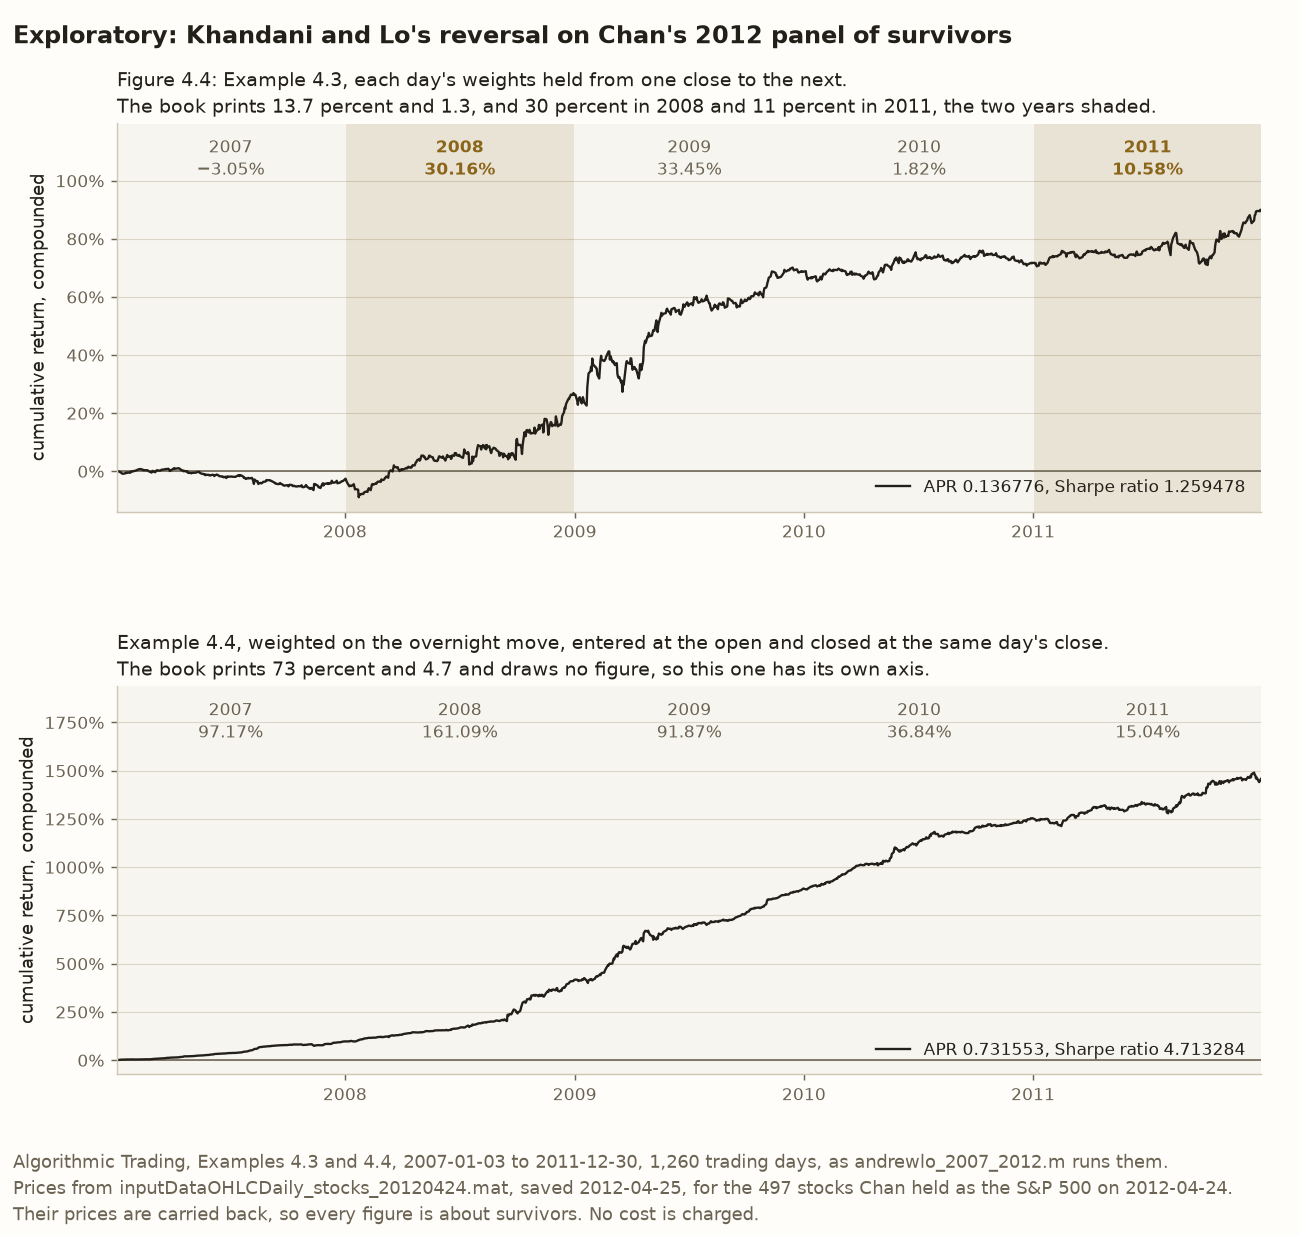
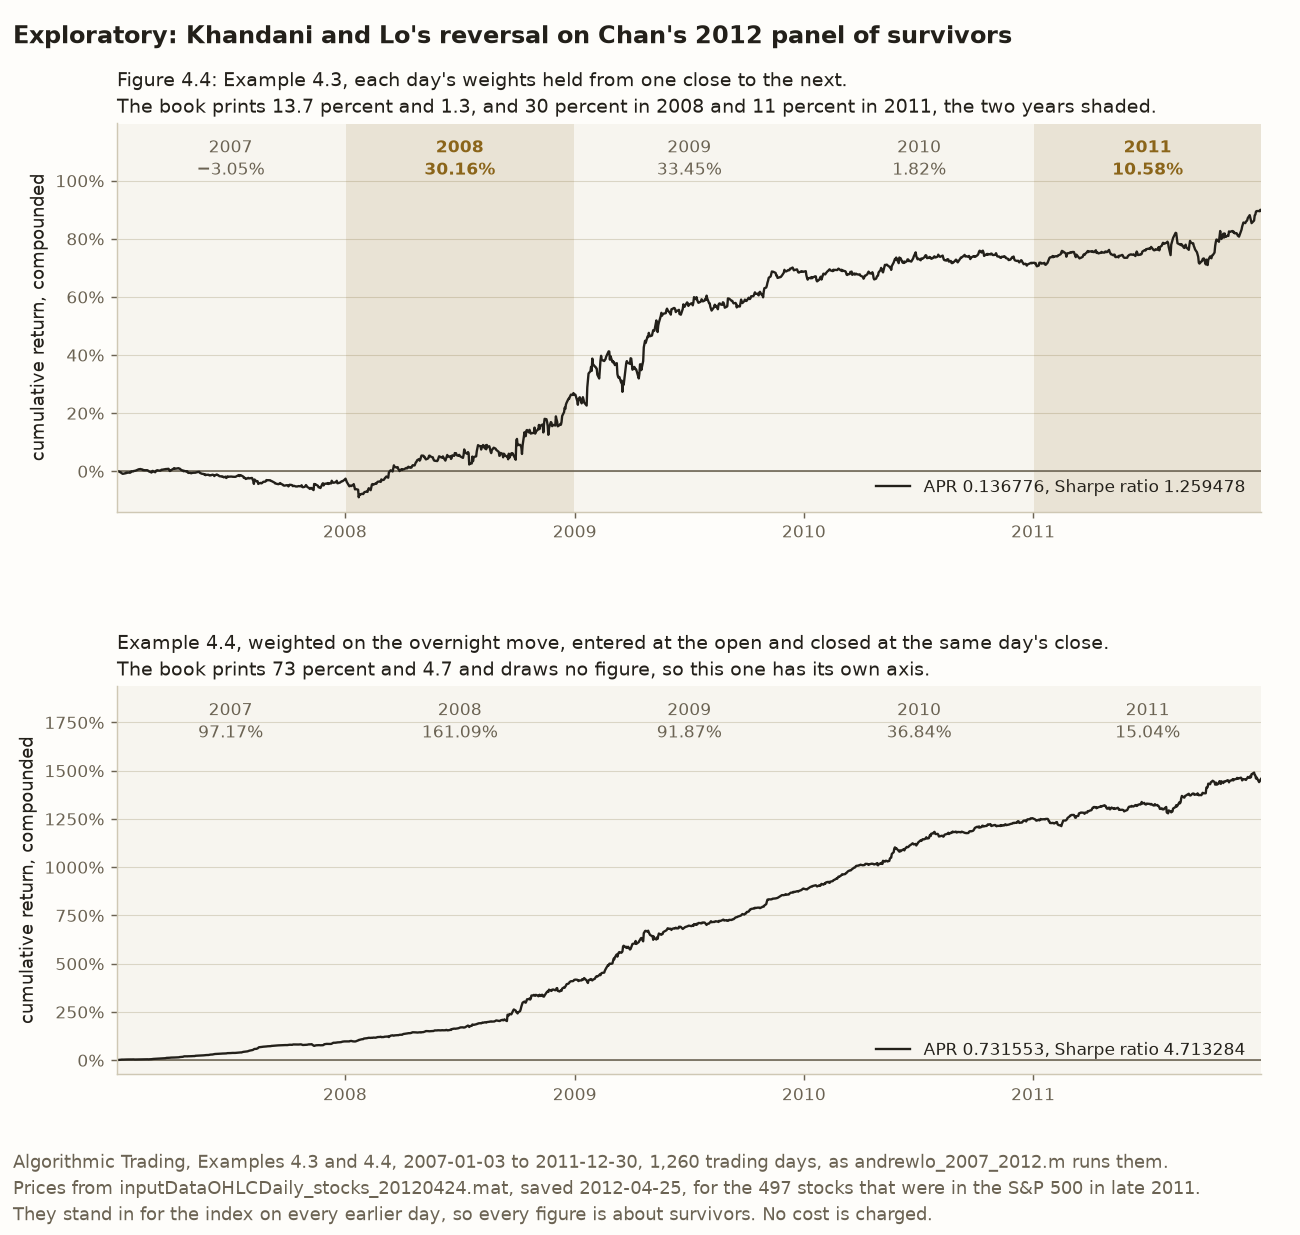
docs(blog): round 1 accuracy fixes on the Khandani-Lo reversal post
The review loop's first round found these facts wrong in the post and on
the surfaces that repeat them.

- Chan's 2012 stock file holds the S&P 500 of late 2011, not of
  2012-04-24, so the post, Entry 19, README, the module's docstring and
  printout, a test docstring and the chart's note now say so. The chart
  is redrawn.
- "Every figure Chan prints" counted Figure 4.4, a chart nothing checks.
  The post, Entry 19 and README now say every return and Sharpe ratio.
- The repository keeps the file's contents as one table per stock, not a
  copy of the .mat.
- A weight is minus a stock's return against the average, not plus.
- Only some runs call the scale-break check, the check also flags 14
  stocks' opens, and it flags CAH's rise rather than its fall.
- Chan's first-book standard deviation counts a missing day as a zero.
- Only a lower APR would change Example 4.4's sixth decimal.
- 2006-01-04 has returns and earns nothing because it holds empty weights.

Part of #639
Part of #703
Part of #705
Part of #720
Part of #725

Changed region(s): [[0.0308, 0.9538, 0.5846, 1.0], [0.6154, 0.9538, 0.9231, 1.0]]

diff --git a/src/chan/khandani_lo_book_two.py b/src/chan/khandani_lo_book_two.py
@@ -105,10 +105,11 @@ opens' flags were counted rather than read, and three of their stocks, HBAN,
 SLM and ZION, are flagged on the open only. The decision is about reproducing
 this script, and it is not a ruling for any other rule on this panel.
 
-**Every figure here is about survivors.** The panel is the S&P 500 as Chan
-held it on 2012-04-24, carried backwards. Chan calls the years from 2008 "a
+**Every figure here is about survivors.** The panel holds 497 stocks that
+were in the S&P 500 in late 2011, and the run treats them as the index on
+every earlier day it has a price for them. Chan calls the years from 2008 "a
 true out-of-sample test" because the strategy was published in 2007. They are
-out of sample in time, but the stocks were chosen with 2012's membership.
+out of sample in time, but the stocks were chosen from the index of late 2011.
 [Issue 252](https://github.com/l3a0/quantitative-trading/issues/252) prices
 survivorship on this file for Example 7.2 over 2011 and 2012, and nothing yet
 prices it for this rule over 2007 to 2011.
@@ -336,7 +337,7 @@ def report(members, result: BookTwo) -> None:
     )
     print()
     print(
-        "  The panel holds only the stocks still in the index on 2012-04-24, "
+        "  The panel holds stocks that were in the S&P 500 in late 2011, "
         "so every figure is about survivors."
     )
     print("  Exploratory. docs/replication-log.md carries the verdicts.")

diff --git a/tests/test_khandani_lo_book_two_figures.py b/tests/test_khandani_lo_book_two_figures.py
@@ -138,9 +138,9 @@ class TestThePanels:
             "Algorithmic Trading, Examples 4.3 and 4.4, 2007-01-03 to 2011-12-30, 1,260 "
             "trading days, as andrewlo_2007_2012.m runs them.\n"
             "Prices from inputDataOHLCDaily_stocks_20120424.mat, saved 2012-04-25, for the "
-            "497 stocks Chan held as the S&P 500 on 2012-04-24.\n"
-            "Their prices are carried back, so every figure is about survivors. No cost is "
-            "charged."
+            "497 stocks that were in the S&P 500 in late 2011.\n"
+            "They stand in for the index on every earlier day, so every figure is about "
+            "survivors. No cost is charged."
         ]
 
     def test_the_note_names_every_save_date_once_in_order(self, tmp_path, sources) -> None:

diff --git a/src/chan/khandani_lo_book_two_figures.py b/src/chan/khandani_lo_book_two_figures.py
@@ -166,9 +166,9 @@ def make_reversal_figure(
         f"Algorithmic Trading, Examples 4.3 and 4.4, {days[0].date()} to {days[-1].date()}, "
         f"{len(days):,} trading days, as andrewlo_2007_2012.m runs them.\n"
         f"Prices from {SOURCE_FILE}, saved {', '.join(saved)}, for the {len(members)} stocks "
-        "Chan held as the S&P 500 on 2012-04-24.\n"
-        "Their prices are carried back, so every figure is about survivors. No cost is "
-        "charged.",
+        "that were in the S&P 500 in late 2011.\n"
+        "They stand in for the index on every earlier day, so every figure is about "
+        "survivors. No cost is charged.",
     )
     fig.subplots_adjust(left=0.09, right=0.97, top=0.9, bottom=0.13)
     return _save(fig, out, REVERSAL_FIGURE)

diff --git a/tests/test_khandani_lo_book_two.py b/tests/test_khandani_lo_book_two.py
@@ -15,8 +15,8 @@ both are stated once here.
   from Chan's ``inputDataOHLCDaily_stocks_20120424.mat``, saved 2012-04-25,
   read for the close and the open through ``chan.series.load_panel``. Its
   identity is that file's row of ``LIFTED_SOURCES`` in
-  ``tests/support/committed_vintages.py``. The stocks are the index as Chan
-  held it on 2012-04-24, so every figure is a figure about survivors.
+  ``tests/support/committed_vintages.py``. The stocks were in the S&P 500
+  in late 2011, so every figure is a figure about survivors.
 - **Specification.** *Algorithmic Trading*'s ``andrewlo_2007_2012.m`` at the
   mirror commits the module names. Both price frames are cut to 2007-01-03
   through 2011-12-30, 1,260 trading days, before any return is taken. Each

diff --git a/blog/khandani-lo-reversal-lessons.md b/blog/khandani-lo-reversal-lessons.md
@@ -1,6 +1,6 @@
 # Chan’s reversal reproduces on his 2012 panel, and most of its rise from 0.25 to 1.3 is the data
 
-*Algorithmic Trading runs the first book’s reversal again on 497 stocks from 2007 to 2011. Every figure Chan prints lands on his own file, and the rule explains less of the jump in its Sharpe ratio than the data and the window do.*
+*Algorithmic Trading runs the first book’s reversal again on 497 stocks from 2007 to 2011. Every return and Sharpe ratio Chan prints reproduces on his own file, and the new rule explains less of the jump in its Sharpe ratio than the new data and window do.*
 
 ## Why look at the reversal a second time
 
@@ -8,9 +8,9 @@ The [post on trading costs and failed companies](https://github.com/l3a0/quantit
 
 Chan’s second book, *Algorithmic Trading*, brings the rule back as its lesson on cross-sectional mean reversion (Chan, 2013, location 2087). A stock is judged against its peers on the same day rather than against its own past, so the bet is that a stock that did worse than the rest will do better next, “and vice versa”. He runs it on a newer file over 2007 to 2011 and reports a Sharpe ratio of 1.3, about five times the first book’s, and an intraday version with 4.7 (locations 2110 and 2135).
 
-Chan published the script, `andrewlo_2007_2012.m`, and the data file it reads. This repository keeps a copy of the file and ran a line-by-line transcription of the script on it. Every figure the book prints for the two examples lands, and so do the two the script printed at six decimals.
+Chan published the MATLAB script, `andrewlo_2007_2012.m`, and the data file it reads. This repository keeps the file’s contents as one table per stock, and together the tables rebuild the file’s open, high, low, close and volume arrays exactly. It ran a line-by-line Python transcription of the script on those tables. Every return and Sharpe ratio the book prints for the two examples reproduces, and so do Example 4.4’s APR and Sharpe ratio as the script’s closing comment records them, at six decimals.
 
-**Every result here is exploratory.** Reproducing Chan’s figures spends the 2007 to 2011 sample on a rule somebody else chose, so it can say whether his numbers follow from his file and nothing about whether the rule pays today. **Every figure is also about survivors.** The file holds the S&P 500 as Chan held it on 2012-04-24, with each stock’s prices carried back over the whole window, so a company that left the index before then is not in it.
+**Every result here is exploratory.** Reproducing Chan’s figures uses the 2007 to 2011 data to check a rule somebody else chose, so it can say whether his numbers follow from his file and nothing about whether the rule pays today. **Every figure is also about survivors.** The file holds 497 stocks that were in the S&P 500 in late 2011, and the run treats them as the index on every earlier day it has a price for them. A company that was out of the index for all of late 2011 is not in the file.
 
 The four lessons below say what the reproduction does teach. The code is open source at [l3a0/quantitative-trading](https://github.com/l3a0/quantitative-trading).
 
@@ -26,13 +26,13 @@ The second book’s rule differs from the first book’s in five ways.
 2. **A stock with no price gets no weight at all**, where the first book gives it a weight of 0. Both leave it out of the day’s profit.
 3. **No cost is charged.** The script’s cost lines are commented out.
 4. **The window is cut before any return is taken.** The first book takes returns on its whole file and cuts the profit afterwards. Here the first day of the window has no return, so the first days earn nothing.
-5. **The Sharpe ratio uses MATLAB’s own mean and standard deviation**, where the first book uses helpers that skip missing days. No series here has a missing day, so this difference moves no figure.
+5. **The Sharpe ratio uses MATLAB’s own mean and standard deviation**, where the first book uses Chan’s own functions, whose mean skips a missing day and whose standard deviation counts it as a zero. No series here has a missing day, so this difference moves no figure.
 
 The data is [one file](https://github.com/l3a0/quantitative-trading/blob/main/data/README.md), Chan’s own MATLAB file `inputDataOHLCDaily_stocks_20120424.mat`, saved on 2012-04-25 and converted here to one file per stock. It holds 497 stocks with their opens and closes, and this post calls it the panel. The script cuts it to 1,260 trading days, from 2007-01-03 to 2011-12-30. The book says the run starts on January 2, 2007, which was a market holiday. The cut makes Example 4.3’s first two days earn nothing, because its first day has no return and its second holds the first day’s empty weights. Example 4.4’s first day earns nothing for the same reason. This repository transcribed the script from a public copy of Chan’s code, `ericnberwick/EpchanPreview` at commit `e4bc46f`, which a second copy holds byte for byte.
 
-Chan calls the rule “almost perfectly dollar neutral” (location 2110), meaning the dollars bought match the dollars sold short. Each weight is a stock’s return minus the day’s average return, so the weights sum to zero, and scaling them by the gross keeps it so. They sum to zero on every day of both examples, to within the rounding of the arithmetic.
+Chan calls the rule “almost perfectly dollar neutral” (location 2110), meaning the dollars bought match the dollars sold short. Each weight is minus a stock’s return against the day’s average return, so the weights sum to zero, and dividing them by the gross keeps them summing to zero. They do on every day of both examples, to within the rounding of the arithmetic.
 
-## Lesson 1: every figure Chan prints lands on his own file
+## Lesson 1: every return and Sharpe ratio Chan prints reproduces on his own file
 
 Here is each figure, computed, beside the script’s comment and the book.
 
@@ -56,7 +56,7 @@ Three figures sit close to the point where their rounding would change, measured
 2. Its APR in 2011 sits 0.08 above 10.5 percent, below which the book would print 10.
 3. Example 4.4’s APR is 0.7315525016, which sits 1.6 × 10⁻⁹ above the point where the script’s sixth decimal would round down to 0.731552.
 
-The third is the tightest. A port that drifted from the script by more than that would print a different last digit.
+The third is the tightest. A transcription whose APR came out lower than this one by more than that would print 0.731552 instead.
 
 The distance from 1.3 to 4.7 comes from the average return, since the two examples have about the same standard deviation. A year of Example 4.3 averages a return of 0.1338 with a standard deviation of 0.1063. A year of Example 4.4 averages 0.5565 with a standard deviation of 0.1181. The Sharpe ratio is the first number over the second, so four times the average return with a similar standard deviation gives a ratio nearly four times as large. Location 2890 sets the same 4.7 against cross-sectional momentum, which buys the recent winners against their peers instead, and the [post on cross-sectional momentum](https://github.com/l3a0/quantitative-trading/blob/main/blog/cross-sectional-momentum-lessons.md) covers.
 
@@ -70,11 +70,11 @@ The book names 2008, “the year of Lehman Brothers’ bankruptcy”, and 2011 (
 
 ## Lesson 2: the match needs one stock’s odd prices
 
-This repository checks every price series before a run reads it, with what it calls the scale-break guard. The guard refuses a window in which a stock’s price changes by a ratio too far from 1 to be an ordinary move, the mark a split or a data error leaves. Over this window it would refuse 17 stocks’ closes. Most of the days it flags fall in the 2008 crisis, such as AIG’s collapse on 2008-09-15, which are moves a reversal rule is meant to trade.
+Many runs in this repository check each price series before reading it. The check refuses a window in which a stock’s price changes by a ratio too far from 1 to be an ordinary move, the mark a split or a data error leaves. Over this window it would refuse 17 stocks’ closes and 14 stocks’ opens. Most of the closes it flags fall in the 2008 crisis, such as AIG’s collapse on 2008-09-15. Those are moves a reversal rule is meant to trade.
 
-One of them is not. CAH closes at 19.96 on 2009-08-31, 14.50 on 2009-09-01 and 23.57 on 2009-09-02. A fall that the next day more than undoes reads as a data error or a corporate action, such as a split or a spin-off, rather than a crash. The script computes across it, and so does the transcription, because without it the figures miss the book’s. Without CAH, Example 4.3 gives an APR of 13.26 percent and a Sharpe ratio of 1.2267, which would print as 13.3 and 1.2. Neither lands.
+One of them is not. CAH closes at 19.96 on 2009-08-31, 14.50 on 2009-09-01 and 23.57 on 2009-09-02. The check flags the rise on 2009-09-02, and the fall before it stays inside the check’s bounds. A fall that the next day more than undoes reads as a data error or a corporate action, such as a split or a spin-off, rather than a crash. Chan’s script takes returns across those days, and so does the transcription, because dropping CAH makes the figures miss the book’s. Without CAH, Example 4.3 gives an APR of 13.26 percent and a Sharpe ratio of 1.2267, which would print as 13.3 and 1.2, so neither matches the book’s 13.7 and 1.3.
 
-A cleaner file would miss Chan’s figures. So the reproduction checks the computation on his file, odd prices included, and says nothing about what the rule would have earned on correct prices. That is why the guard does not run for this script, a decision made for reproducing it and not for any other rule on the panel.
+So the transcription does not run the check. This repository made that decision to reproduce this one script, and it applies to no other rule run on the panel. The reproduction checks the computation on Chan’s file, odd prices included, and says nothing about what the rule would have earned on correct prices.
 
 ## Lesson 3: most of the rise from 0.25 to 1.3 is the data and the window
 
@@ -95,9 +95,9 @@ All five are before costs. The first book’s file is `SPX_20071123.mat`, the 50
 
 Read from the top, the second book’s rule moves the first book’s year from 0.2510 to 0.5484, by 0.2974. That leaves 0.7111 still to go to Example 4.3’s 1.2595, more than twice what the rule moved. Read from the bottom, the first book’s rule on the panel earns 1.2219, close to 1.2595 on the same days. Both orders say the same thing. The file and the window carry most of the rise.
 
-The rule’s own 0.2974 is not all weighting either. The cut alone carries 0.1313 of it, 0.44 of the rule’s share. Cutting before taking returns gives 2006-01-03 and 2006-01-04 no return. Those two days lost 0.48 and 0.14 percent, so letting them earn brings the figure down to 0.4170. On one year of 251 days, two days raise a Sharpe ratio from 0.4170 to 0.5484, by about a third.
+Part of that 0.2974 comes from cutting the window before taking returns, rather than from how the weights are set. When the window is cut first, the year’s first two days, 2006-01-03 and 2006-01-04, earn nothing, because the first has no return and the second holds the first day’s empty weights. With returns taken before the cut, those two days lose 0.48 and 0.14 percent, and the Sharpe ratio comes down to 0.4170, the second row. So zeroing two losing days raises the figure from 0.4170 to 0.5484, by about a third. That is 0.1313 of the 0.2974, or 0.44 of it. Both come from the unrounded figures, and the rounded rows give 0.1314. One year holds only 251 days, so two of them can move a Sharpe ratio that far.
 
-What changed in the data is not only the years. The panel carries 2012-04-24’s membership back five years, to 2007. The first book’s file carries 2007-11-23’s back under two, to 2006. A longer stretch of survivors leaves out more of the companies that left the index along the way, by failing or by being bought, and no test here measures how survivorship moves the 1.2219.
+The data differ in more than the years. The panel carries a list of the index from late 2011 back almost five years, to 2007. The first book’s file carries 2007-11-23’s membership back under two years, to 2006. The longer the stretch, the more of the companies that left the index along the way are missing from the file, whether they failed, were bought or left for another reason. No test here measures how much leaving them out moves the 1.2219.
 
 ## Lesson 4: costs still take most of the first book’s rule’s edge, and the panel shows why they take less
 
@@ -116,8 +116,8 @@ Example 4.4 would pay more. Chan writes that its costs “will be doubled, becau
 
 Five questions are beyond it.
 
-1. **What the rule earned on the index as it stood each day.** Every stock on the panel was in the S&P 500 on 2012-04-24, and nothing here measures how survivorship moves this rule over 2007 to 2011.
-2. **Whether 2008 to 2011 is out of sample in Chan’s sense**, meaning data the rule was not designed on. He calls it “a true out-of-sample test, as the strategy was published in 2007” (location 2110). It is out of sample in time, but the stocks were chosen with 2012’s membership.
+1. **What the rule earned on the index as it stood each day.** Every stock on the panel was in the S&P 500 in late 2011, and nothing here measures how survivorship moves this rule over 2007 to 2011.
+2. **Whether 2008 to 2011 is out of sample in Chan’s sense**, meaning data the rule was not designed on. He calls it “a true out-of-sample test, as the strategy was published in 2007” (location 2110). It is out of sample in time, but the stocks were chosen from the index as it stood in late 2011, at the end of the window.
 3. **What costs would take from Example 4.4.** It trades twice a day and is charged no cost.
 4. **Whether the open is tradeable on its own signal.** Example 4.4 sets its weights from today’s open and enters at that same open, so the price that sets a weight may not be a price the trade can get. Chan calls this “trading signal noise” at location 2135, and the run does not measure it.
 5. **Whether the rule pays today.** The window ends in 2011, and the result is exploratory.

diff --git a/docs/replication-log.md b/docs/replication-log.md
@@ -4826,7 +4826,7 @@ apart from Examples 3.7 and 3.8, which are *Quantitative Trading*'s.
 Eleven rows, all derivable from
 [tests/test_khandani_lo_book_two.py](../tests/test_khandani_lo_book_two.py).
 
-**Every figure Chan prints reproduces on his own file.** The rule is the one
+**Every return and Sharpe ratio Chan prints reproduces on his own file.** The rule is the one
 Entries 8 and 10 run: weight every stock by minus its return against the
 equal-weighted market, so the rule buys what fell most against its peers and
 shorts what rose most. Example 4.3 holds the weights from one close to the
@@ -4874,7 +4874,8 @@ rows 10 and 11 run a rule other than this one, and each row says which.
    loads `inputDataOHLCDaily_20120424`, without `_stocks`, and
    [data/README.md](../data/README.md) records that the copy under that name
    is the same bytes. **Every figure here is about survivors**, because the
-   panel is the S&P 500 as Chan held it on 2012-04-24, carried backwards.
+   panel holds 497 stocks that were in the S&P 500 in late 2011, and the run
+   treats them as the index on every earlier day it has a price for them.
 2. **The specification.** `andrewlo_2007_2012.m` at `e4bc46f` in
    [ericnberwick/EpchanPreview](https://github.com/ericnberwick/EpchanPreview),
    identical to the copy at `4567024` in
@@ -4977,8 +4978,9 @@ Three things.
    ratio by a third. Both differences come from the unrounded figures,
    which `TestBesideTheFirstBook::test_the_differences_the_post_quotes_round_from_the_unrounded_figures`
    holds. The data include a longer survivor horizon, since this
-   panel carries 2012-04-24's membership back to 2007, five years, where
-   Entry 8's file carries 2007-11-23's back to 2006, under two, and nothing
+   panel carries a list of the index from late 2011 back to 2007, almost
+   five years, where Entry 8's file carries 2007-11-23's back to 2006, under
+   two, and nothing
    here prices what that adds.
 3. **Entry 8's lesson survives the move to the 2012 panel.** Charged 5 basis
    points a side, the first book's rule falls from 1.2219 to 0.3797 over 2007
@@ -4994,14 +4996,14 @@ it.
 Five things.
 
 **What the rule earned on the index as it stood each day.** Every stock here
-was in the S&P 500 on 2012-04-24.
+was in the S&P 500 in late 2011.
 [Issue 252](https://github.com/l3a0/quantitative-trading/issues/252) prices
 survivorship on this file for Example 7.2 over 2011 and 2012, and nothing yet
 prices it for this rule over 2007 to 2011.
 
 **Whether 2008 to 2011 is out of sample in Chan's sense.** He calls it "a
 true out-of-sample test, as the strategy was published in 2007". It is out of
-sample in time, but the stocks were chosen with 2012's membership, so the
+sample in time, but the stocks were chosen from the index of late 2011, so the
 entry repeats his sentence and gives it no verdict.
 
 **What costs would take from Example 4.4.** It trades twice a day, which Chan

diff --git a/README.md b/README.md
@@ -5267,7 +5267,8 @@ a Sharpe ratio of 1.3 for the close-to-close rule, with 30 percent in 2008 and
 links the earlier post on the first book's rule rather than repeating it, and
 draws four lessons from Entry 19 of the replication log.
 
-1. Every figure the book prints lands on Chan's own file, and so do the two
+1. Every return and Sharpe ratio the book prints lands on Chan's own file,
+   and so do the two
    the script printed at six decimals, though two of the book's roundings have
    little room.
 2. The match needs CAH's prices of 2009-08-31 to 2009-09-02, which read as a
@@ -5302,8 +5303,8 @@ Five groups of what it says are not pinned here.
 3. Readings no test asserts: that most of the scale-break guard's flags on
    this window fall in the 2008 crisis, that CAH's prices read as a data error
    or a corporate action, and that a longer stretch of survivors leaves out
-   more of the companies that left the index. The survivor horizons of five
-   years and under two are arithmetic on the two files' membership dates.
+   more of the companies that left the index. The survivor horizons of almost
+   five years and under two are arithmetic on the two files' membership dates.
 4. Ratios the post takes between pinned figures in words: about five times,
    nearly four times, four times the average return, about the same standard
    deviation, more than twice, by about a third, and less than a third. So is
